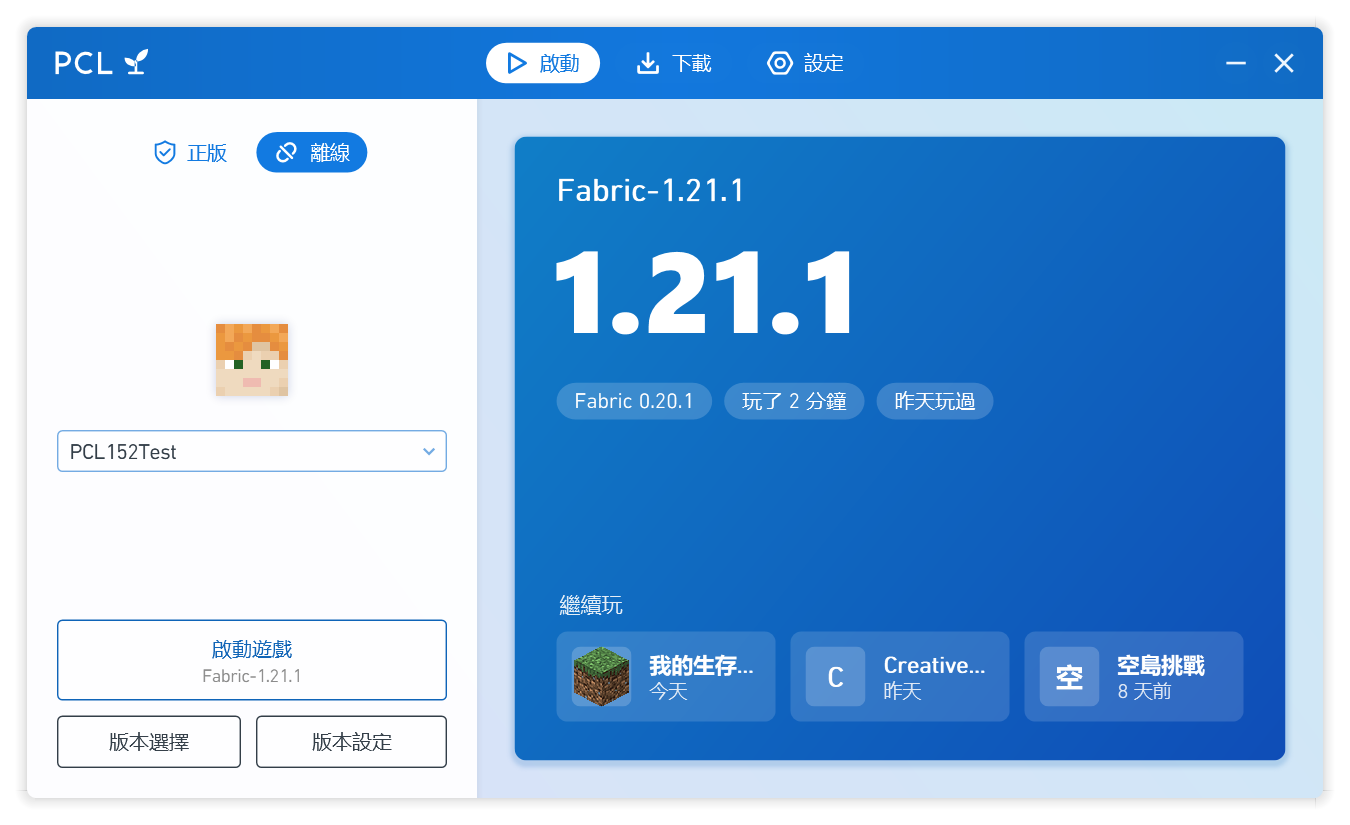
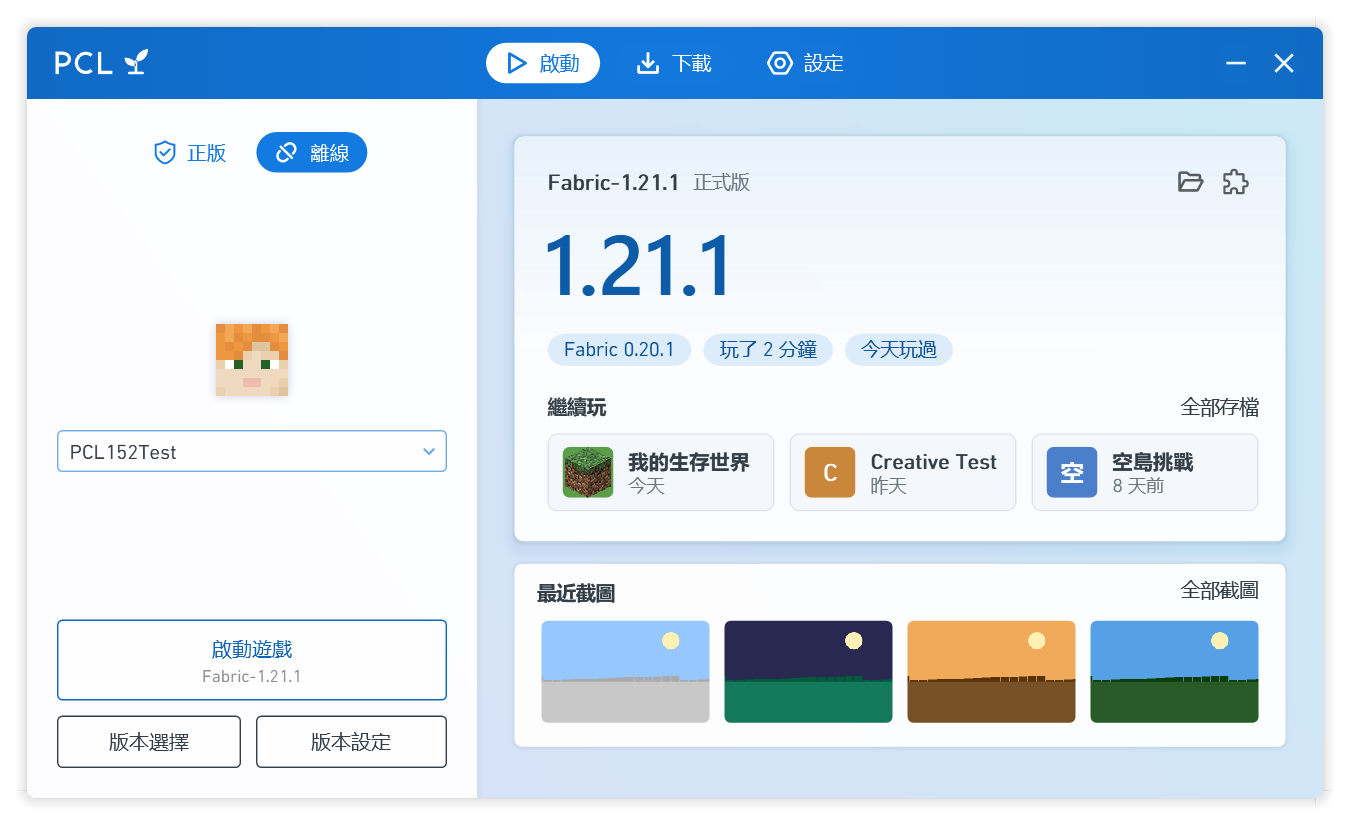
更新 CHANGELOG、README 與首頁截圖

diff --git a/README.md b/README.md
@@ -16,7 +16,7 @@ PCL 是龙腾猫跃开发的 Minecraft Java 版启动器。樹苗修改版保留
 
 ## 来自 Sapling 的功能
 
-- **首页主角卡**：当前版本的名字、大号版本号、加载器与游玩时间一眼可见
+- **首页主角卡**：当前版本的名字、主题蓝的大号版本号、加载器与游玩时间一眼可见，下方是最近截图
 - **继续玩**：首页列出最近的世界和服务器，点一下直接进入（世界需要 Minecraft 1.20 及以上）
 - **实时游戏日志**：游戏运行时在首页显示最新的输出，崩溃后也能回看
 - **一键开始**：还没有任何版本时，点「开始玩」就会下载最新正式版并直接进入游戏
@@ -44,6 +44,7 @@ PCL 是龙腾猫跃开发的 Minecraft Java 版启动器。樹苗修改版保留
 - 实例概览显示游玩时间，可以一键进入或备份存档
 - 从 Prism Launcher、MultiMC 导入实例
 - 新游戏的默认设置：语言、视距、音量等
+- Mod 管理会检查已启用的 Mod 是否缺少前置；可以固定内存大小（取自 PCL CE）
 - 整合包安装前先列出内容，来自 Modrinth 与 GitHub 以外的下载会特别提示
 - 游戏退出后，从游戏日志中抹去登录令牌，分享日志更安全
 - 导出 / 导入启动器设置；从 GitHub 自动检查更新
@@ -56,6 +57,7 @@ PCL 是龙腾猫跃开发的 Minecraft Java 版启动器。樹苗修改版保留
 
 **外观**
 
+- 深色模式（跟随系统、浅色或深色），三档界面大小，所有按钮都能用键盘操作
 - 五种蓝色主题与可在蓝色范围内调整的自定义主题（PCL 的使用指南要求界面主色调为蓝色）
 - 新的图标：PCL 蓝底上的樹苗
 

diff --git a/README.zh-Hant.md b/README.zh-Hant.md
@@ -16,7 +16,7 @@ PCL 是龍騰貓躍開發的 Minecraft Java 版啟動器。樹苗修改版保留
 
 ## 來自 Sapling 的功能
 
-- **首頁主角卡**：當前版本的名字、大號版本號、載入器與遊玩時間一眼可見
+- **首頁主角卡**：當前版本的名字、主題藍的大號版本號、載入器與遊玩時間一眼可見，下方是最近截圖
 - **繼續玩**：首頁列出最近的世界和伺服器，點一下直接進入（世界需要 Minecraft 1.20 及以上）
 - **即時遊戲日誌**：遊戲運行時在首頁顯示最新的輸出，崩潰後也能回看
 - **一鍵開始**：還沒有任何版本時，點「開始玩」就會下載最新正式版並直接進入遊戲
@@ -44,6 +44,7 @@ PCL 是龍騰貓躍開發的 Minecraft Java 版啟動器。樹苗修改版保留
 - 實例概覽顯示遊玩時間，可以一鍵進入或備份存檔
 - 從 Prism Launcher、MultiMC 匯入實例
 - 新遊戲的預設設定：語言、視距、音量等
+- Mod 管理會檢查已啟用的 Mod 是否缺少前置；可以固定記憶體大小（取自 PCL CE）
 - 整合包安裝前先列出內容，來自 Modrinth 與 GitHub 以外的下載會特別提示
 - 遊戲退出後，從遊戲日誌中抹去登入令牌，分享日誌更安全
 - 匯出 / 匯入啟動器設定；從 GitHub 自動檢查更新
@@ -56,6 +57,7 @@ PCL 是龍騰貓躍開發的 Minecraft Java 版啟動器。樹苗修改版保留
 
 **外觀**
 
+- 深色模式（跟隨系統、淺色或深色），三檔介面大小，所有按鈕都能用鍵盤操作
 - 五種藍色主題與可在藍色範圍內調整的自訂主題（PCL 的使用指南要求介面主色調為藍色）
 - 新的圖示：PCL 藍底上的樹苗
 

diff --git a/CHANGELOG.md b/CHANGELOG.md
@@ -2,6 +2,24 @@
 
 PCL 樹苗修改版的版本号从 1.0.0 开始，与 PCL 原版的版本号无关。每个版本基于的 PCL 版本写在「设置 → 关于」中。
 
+## 未发布
+
+### 界面
+
+- 首页重新设计（方向「轻主角」）：白色主角卡顶部一层很淡的主题色，主题蓝的大号版本号与标签，卡片内的「继续玩」，下方的「最近截图」
+- 深色模式：设置 → 个性化 → 外观（跟随系统 / 浅色 / 深色），深色只换中性色，主题蓝不变
+- 界面大小：标准 / 较大 / 特大，即时生效
+- 键盘操作：按钮、列表项、复选框、分页与首页卡片都能用 Tab 选中、用 Enter 或空格按下，并显示焦点框
+
+### 来自 PCL CE
+
+- Mod 管理会检查已启用的 Mod 是否缺少前置
+- 内存分配新增「固定内存大小」
+
+### 修复
+
+- 繁体中文下，下载页版本框的「全部」仍显示简体
+
 ## 1.0.0（2026-11-13）
 
 第一个正式版本，基于 PCL 2.99.0.1。
